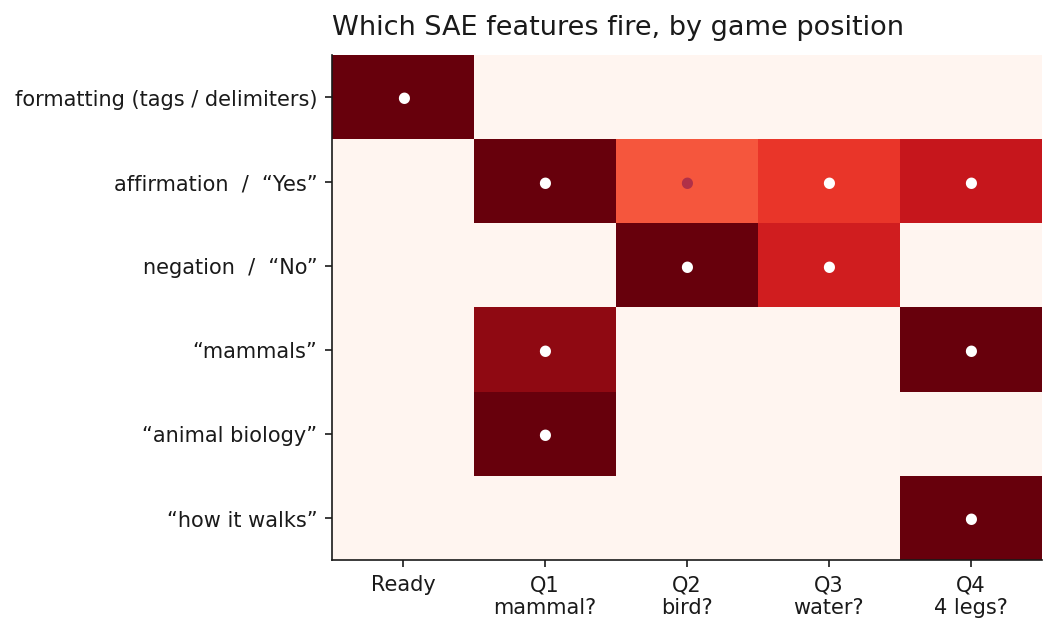
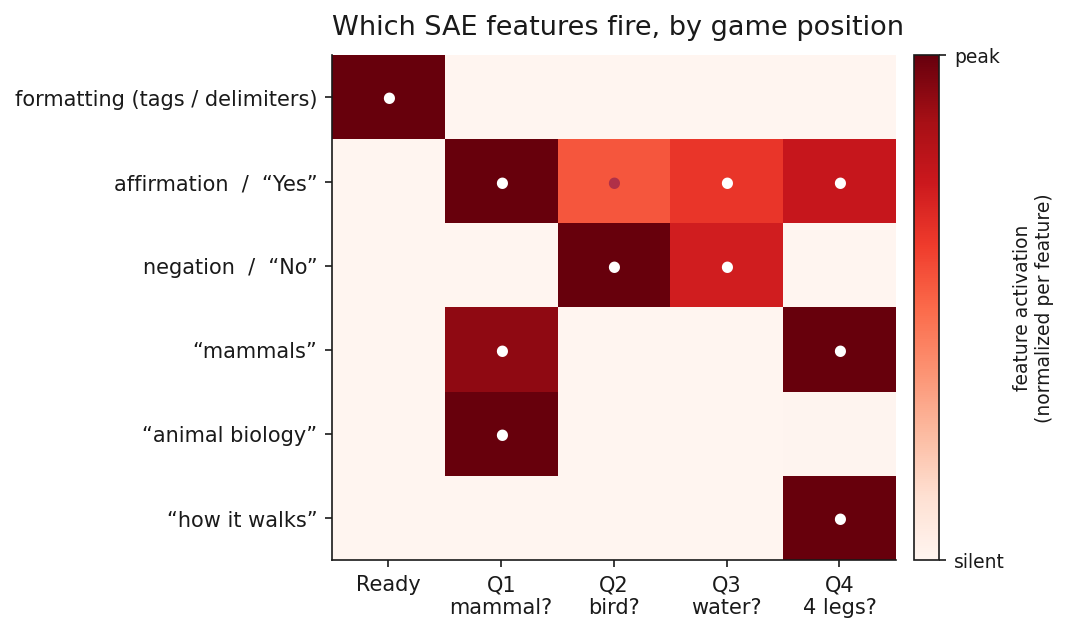
blog: add colorbar legend to feature-by-turn heatmap

diff --git a/scripts/blog_figures.py b/scripts/blog_figures.py
@@ -110,6 +110,10 @@ if Path(fp).exists():
                         fontsize=7, color=("white" if Mn[i, j] > 0.6 else "#b03048"))
     ax.set_title("Which SAE features fire, by game position",
                  loc="left", fontsize=13, pad=10)
+    cbar = fig.colorbar(im, ax=ax, fraction=0.046, pad=0.03,
+                        ticks=[0, 1])
+    cbar.ax.set_yticklabels(["silent", "peak"], fontsize=9)
+    cbar.set_label("feature activation\n(normalized per feature)", fontsize=9)
     fig.tight_layout(); fig.savefig(OUT / "fig3_features_by_turn.png",
                                     bbox_inches="tight")
 
